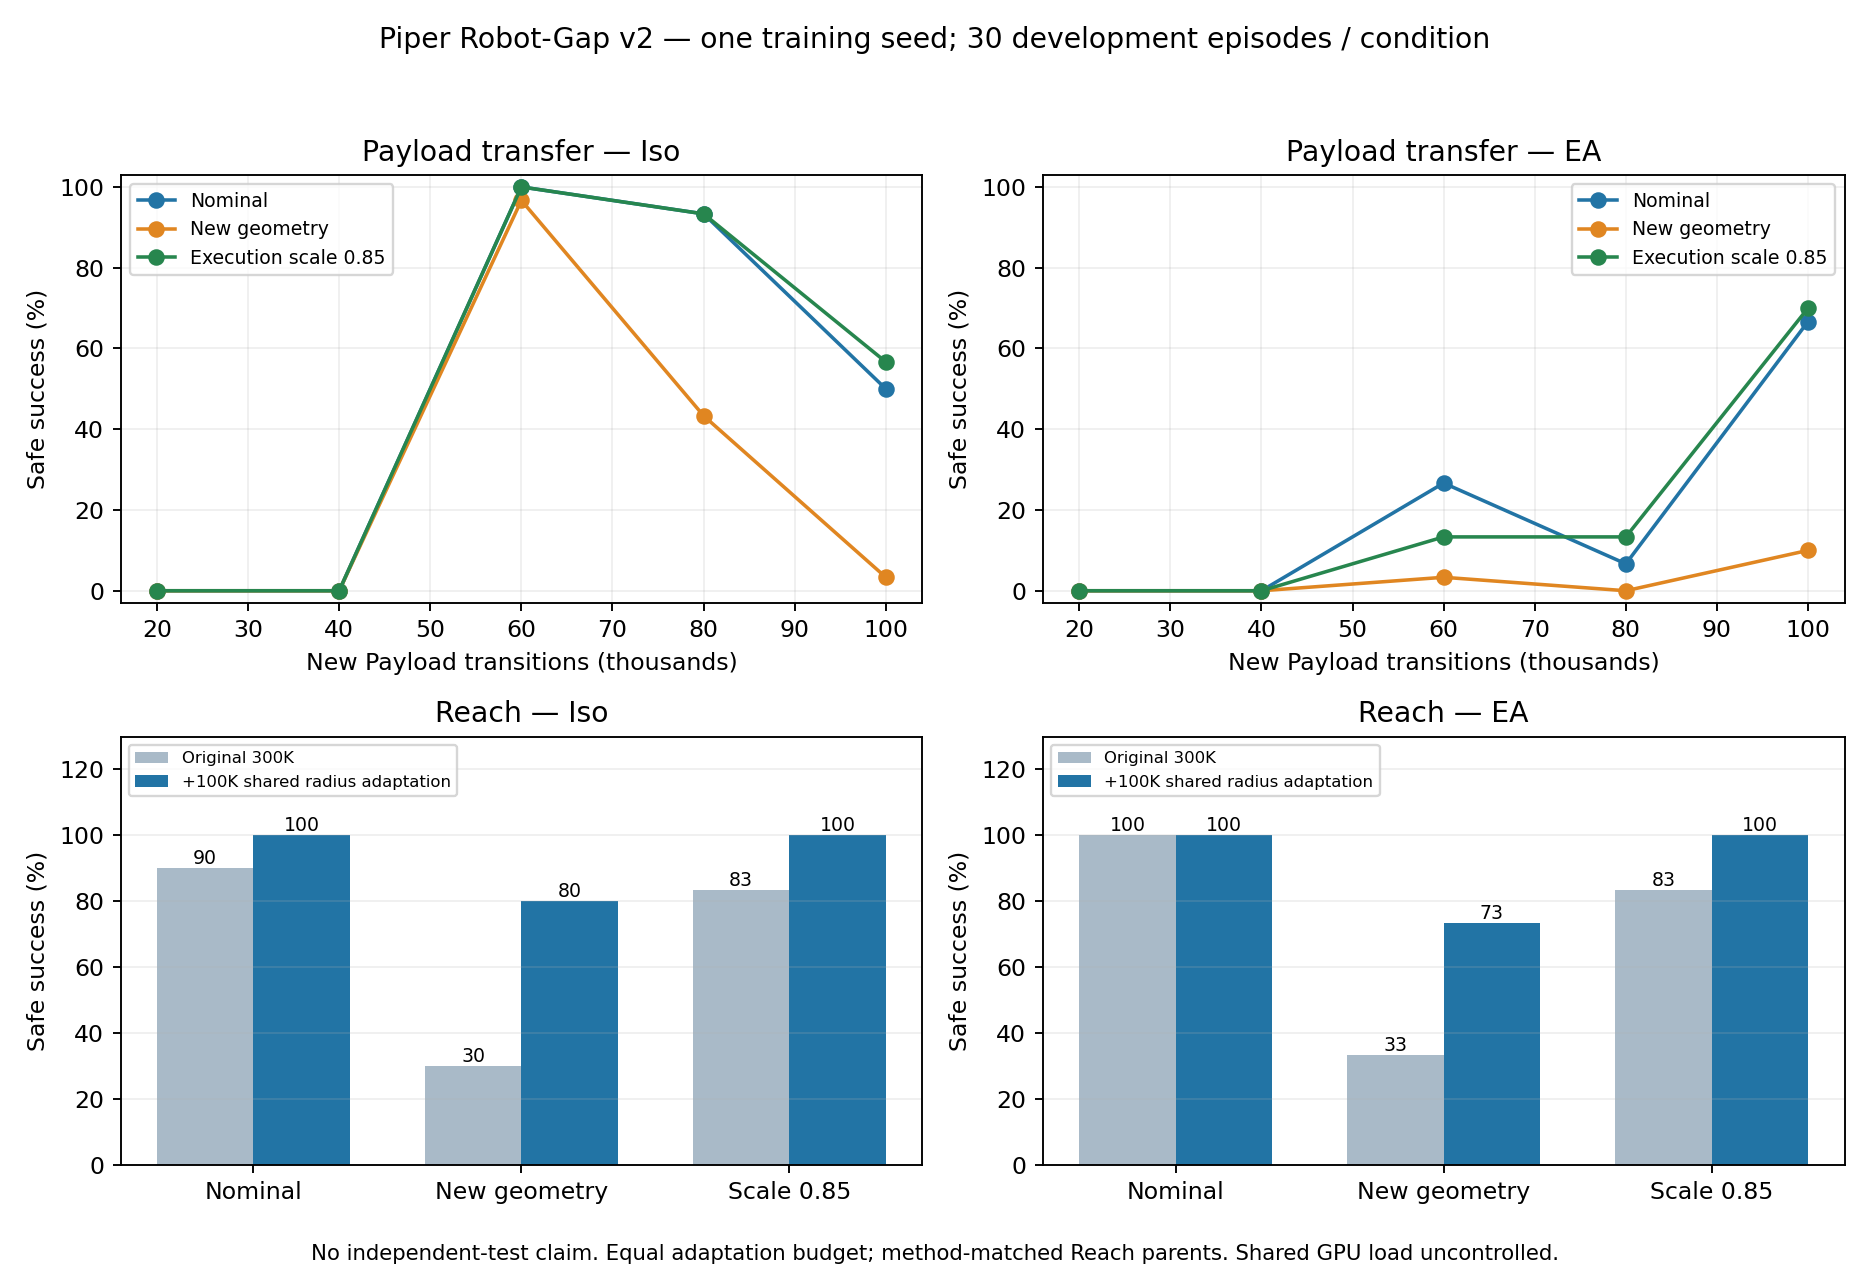
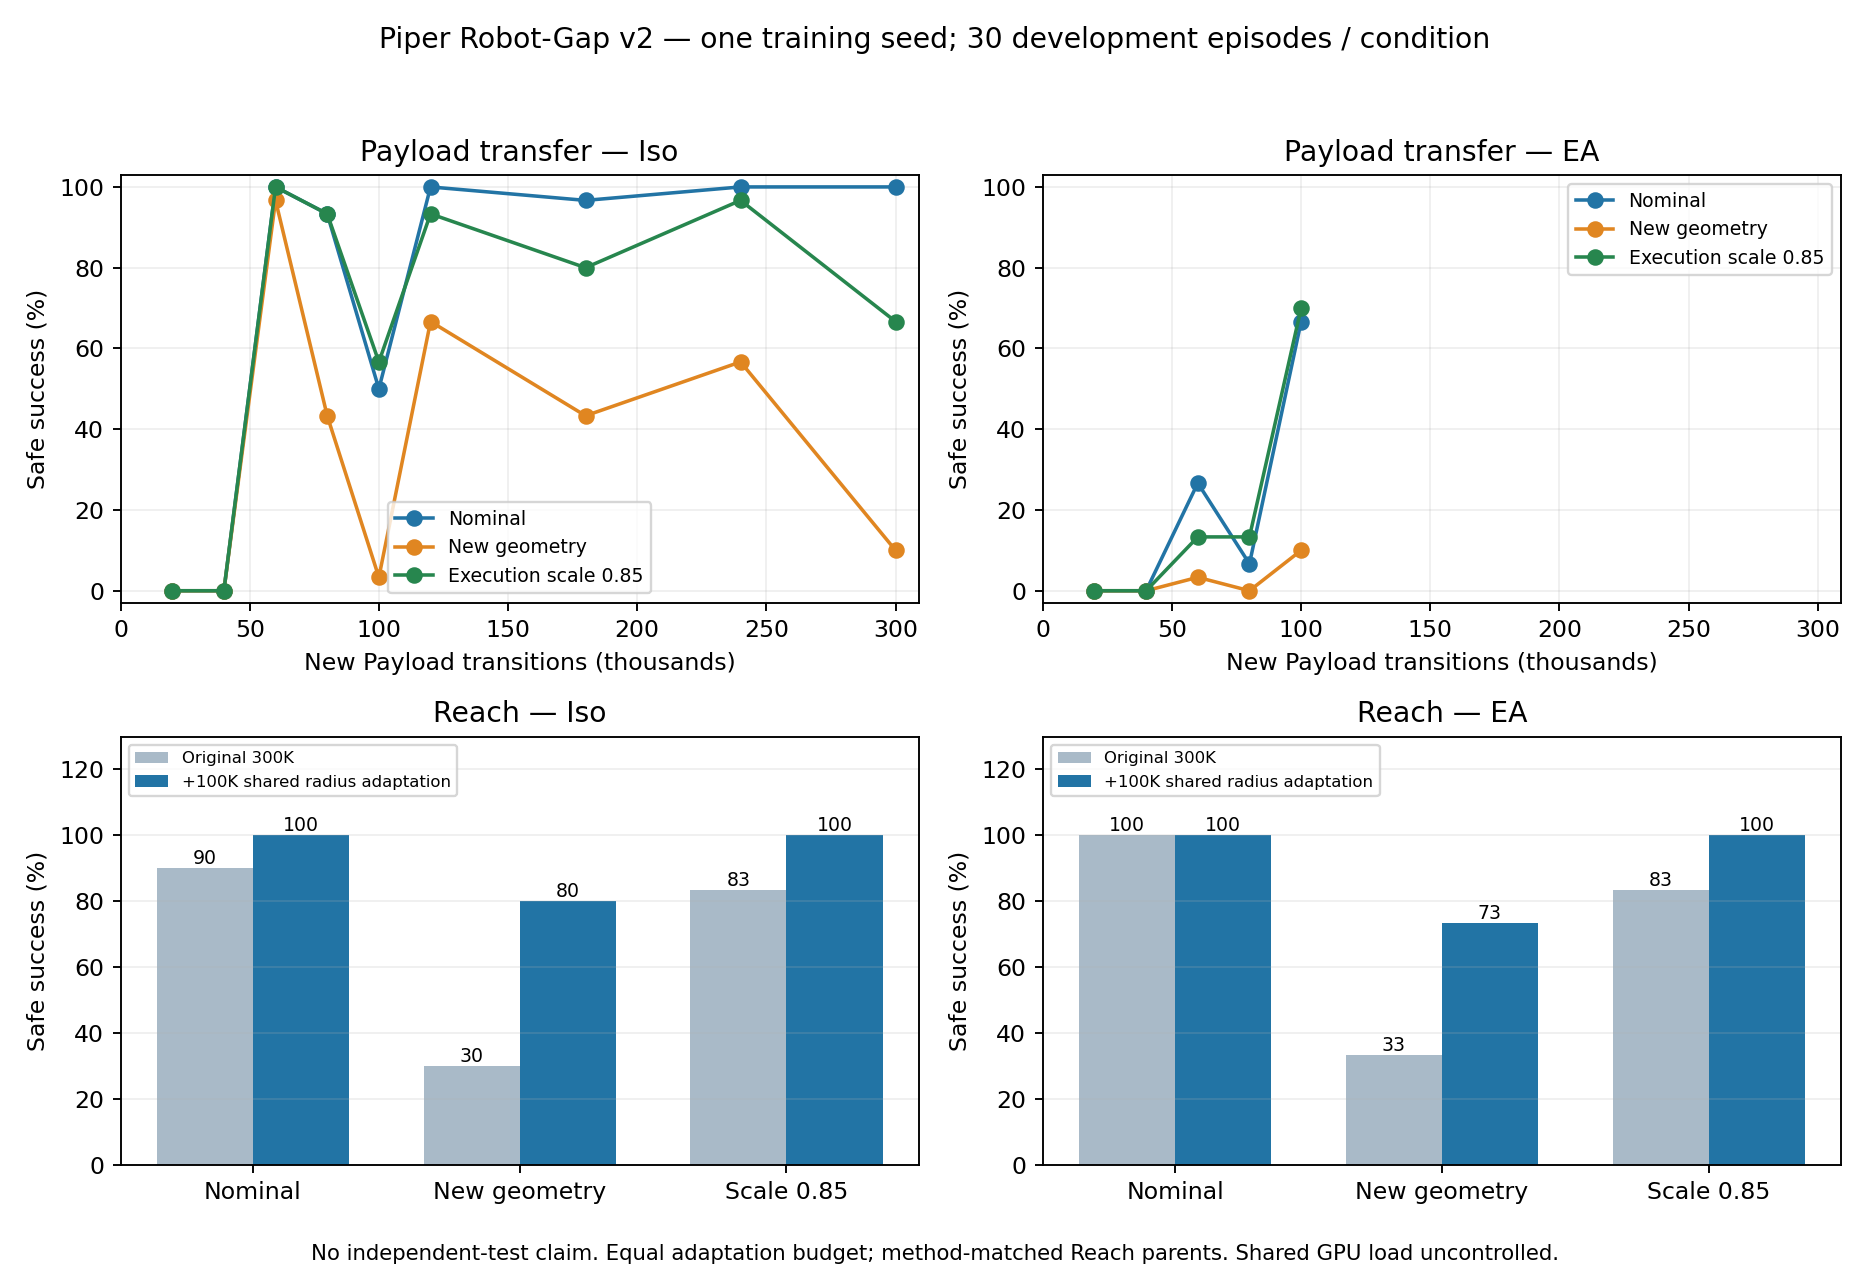
Publish complete Payload Iso300K curve and bounded EA continuation progress

diff --git a/scripts/paper_crax_payload/robot_gap_results.py b/scripts/paper_crax_payload/robot_gap_results.py
@@ -61,6 +61,7 @@ def main():
     conditions=('nominal','new_geometry','execution_scale_085')
     labels=('Nominal','New geometry','Execution scale 0.85')
     colors=('#2274a5','#e08621','#27864e')
+    maximum_payload_steps=max(r['checkpoint_steps'] for r in curves if r['task']=='Payload')
     for column,method in enumerate(('Iso','EA')):
         ax=axes[0,column]
         for condition,label,color in zip(conditions,labels,colors):
@@ -68,7 +69,7 @@ def main():
             ax.plot([r['checkpoint_steps']/1000 for r in selected],
                 [r['safe_success']*100 for r in selected],'-o',label=label,color=color)
         ax.set(title=f'Payload transfer — {method}',xlabel='New Payload transitions (thousands)',
-            ylabel='Safe success (%)',ylim=(-3,103))
+            ylabel='Safe success (%)',ylim=(-3,103),xlim=(0,maximum_payload_steps/1000*1.03))
         ax.legend(fontsize=8); ax.grid(alpha=.2)
         ax=axes[1,column]
         parent=[next(float(r['safe_success'])*100 for r in old

diff --git a/reports/robot_gap_v2/STATUS.md b/reports/robot_gap_v2/STATUS.md
@@ -9,19 +9,19 @@ existing Payload targeted geometry repair. New training cap2.20M, not a spending
 | Old Piper Reach/Payload300K candidates | All six completed on A100 | Compact final evaluations/receipts |
 | Payload failure diagnosis | Fixed10-layout diagnostic completed, no training | See diagnostic_motion_episodes.csv and diagnostic_summary.json |
 | Piper speed | Three10K profiles complete:10.63/32.46/57.66SPS | Batched-large chosen; all short scores zero, no learning-equivalence claim |
-| Reach→Payload | Matched100K pair complete; both200K additional continuations running | Fixed100K endpoint parents, identical full-state resume to300K; no curriculum |
+| Reach→Payload | Iso300K complete; EA239K/300K still running at02:19+08 | Iso final nominal/geometry/scale100%/10%/66.67%; no independent-test claim yet |
 | Reach geometry adaptation≤0.20M | Both100K adaptations complete | New-geometry safe success Iso80%, EA73.33%; nominal/scale100% both |
 | Existing Payload repair≤1.00M | Not launched;4080 original IP unreachable | Recover connection; preserve shared adaptation budget |
 | Final PointGoal mechanism/efficiency/figures | Three-seed figures, native SAC/Flow CPU latency and fixed selected-policy trajectories complete; mechanism queued | Final-selected64×32/four samplers, after Piper work and≥8GiB free GPU memory |
 | Reach deployment candidate/control program | Adapted endpoints frozen and tested on900 independent-layout episodes; actual bundles/replay exported | See reach_adapted_release/README.md; geometry violations28%/30%, hardware eligibility false |
 | Payload post-training closure | Five canonical candidates/method fixed; CPU controller1282516 waits for completed continuations |50common-validation and100independent-layout episodes/condition; no RL or extra candidate opportunities |
 
-Snapshot:2026-11-13T17:44:40UTC (November14,01:44:40+08). Initial campaign and
-Reach followup controllers exited after completing all their jobs. New controller
-PID1263416 launched Payload Iso PID1263426 and EA PID1263428, each200K additional
-transitions from its fixed100K endpoint. All three processes were confirmed live
-again at01:45+08. Observed new training is592K including162K continuation prefixes
-(Iso203K/300K cumulative, EA159K/300K cumulative), not
+Snapshot:2026-11-13T18:19:19UTC (November14,02:19:19+08). Initial campaign and
+Reach followup controllers exited after completing all their jobs. Iso's
+continuation is complete, with its genuine300K receipt; worker1263426 exited
+normally. EA worker1263428 and controllers1263416/1267618/1282516 were confirmed
+live at02:18:50+08. Observed new training is769K:630K completed plus139K of
+EA's200K continuation (239K cumulative Payload). This prefix is not
 a final result or perpetual liveness guarantee. Controllers check every30minutes,
 retain other projects and never restart failed jobs. Final mechanism controller
 was replaced before any query to explicitly supply the pinned native CRAX
@@ -42,6 +42,13 @@ violations28%/30% still fail the10% release rule.55mm was in the adaptation
 training family: independent layouts, not an unseen-radius claim. Iso-Low's
 original120K reference remains0% successful and was not given matched adaptation.
 Actual400K bundles are separate from the preserved original release.
+
+Payload-Iso's completed300K endpoint is100% nominal,10% geometry and66.67%
+scale safe success (30 development episodes/condition), with0%/90%/33.33%
+violations. Its120/180/240K geometry scores66.67/43.33/56.67% also remain in
+the full curve. Continued nominal learning did not fix robustness. The fixed
+endpoint is retained separately from the queued matched-five-candidate
+validation/independent selection. EA's300K result is not available yet.
 
 The first fixed PointGoal trajectory layout61027 gives Iso36goals/17.76cost,
 EA37goals/28.31cost. It is retained despite EA exceeding25 on that example;
@@ -72,7 +79,7 @@ serial/process parity. Local base Python lacks panda_gym; no extra installation
 was performed to force that environment to run these tests.
 
 Reservation: profiles30K + transfer2×100K + Reach2×100K + Payload continuation
-2×200K =830K, against the2.20M cap. Actual observed new transitions are592K at
+2×200K =830K, against the2.20M cap. Actual observed new transitions are769K at
 this snapshot. The1.37M remaining
 unreserved allowance is not a spending target. The Reach decision follows the
 fixed risk diagnostic: a radius prior corrected values without changing the

diff --git a/reports/robot_gap_v2/PROGRESS_REPORT.md b/reports/robot_gap_v2/PROGRESS_REPORT.md
@@ -12,7 +12,7 @@ as history, not descriptions of currently running processes.
 | Required question | Evidence-supported answer now | Remaining evidence |
 |---|---|---|
 | Why did Piper Payload fail to learn? | Original Iso is not immobile:0.424m path but only0.0684m gap reduction; detour and EA each succeed10/10 on the same diagnostic layouts. This identifies ineffective learned routing/progress, not a globally unreachable task. | No isolated causal proof that reward, values or exploration alone caused the failure. |
-| Which repair helps? | Common Reach-Actor transfer plus the profiled update setting produces learning for both methods at100K. Iso50% and EA66.67% nominal; strong intermediate regression is retained. | Fixed300K continuation and its matched-five-candidate independent closure are still running/waiting. No initialization-only causal attribution. |
+| Which repair helps? | Common Reach-Actor transfer plus the profiled update setting produces learning for both methods at100K. Iso now completes300K with100% nominal, but only10% geometry and66.67% scale success. | EA300K continuation and matched-five-candidate independent closure remain pending. No initialization-only causal attribution or solved-robustness claim. |
 | Has Reach geometry improved? | Independent-layout Iso400K success100/72/99%; EA400K100/70/100% for nominal/55mm/scale. Both received100K adaptation. | Geometry violations28/30% exceed the10% release rule.55mm was in training: no unseen-radius claim. |
 | Does EA's gain survive equal adaptation? | PointGoal's frozen independent EA policy has35.43goals/21.32cost versus Iso28.29/26.85. Equal Reach adaptation does not show an EA advantage; Iso is2points higher at55mm. | Payload300K independent comparison;4080 Panda repair. Three-seed fixed10M PointGoal remains separate from selected-policy tests. |
 | Is training genuinely faster? | Profile complete SPS10.63→57.66; actual EA100K transfer34.97SPS including evaluation/save, within20–40SPS engineering target. | Optimization/update counts changed and shared load is uncontrolled; no learning-equivalence or hardware-only speedup claim. |
@@ -359,3 +359,25 @@ receipts, then validates each candidate once, freezes both selected identities
 and evaluates independent layouts. No optional training/curriculum is enabled.
 Original scratch trials remain separate references with different pretraining
 and update histories, not a common-initialization sample-efficiency comparison.
+
+## November14,02:19+08 — first completed300K Payload continuation
+
+Iso's exact100K endpoint continuation finished normally at300K. Fixed endpoint
+nominal/geometry/scale safe success is100%/10%/66.67%, with0%/90%/33.33%
+violations on30 development episodes/condition. Geometry success at120/180/240K
+was66.67/43.33/56.67%; all points and the poor300K endpoint are preserved.
+This is nominal learning without stable robustness, not a reason to extend
+training or replace the endpoint by an intermediate maximum. Its200K segment
+took3019.12s at66.24SPS, with456 additional training violations (682 cumulative
+Payload violations). The five completed-branch efficiency table now has48
+condition/checkpoint rows and common x-axis scales.
+
+EA was confirmed live at239K/300K,38.20SPS prefix. At unchanged prefix speed the
+remaining61K takes about27minutes, plus remaining evaluation/save. This is an
+estimate for this training branch, not an ETA for independent closure or the
+whole project. Current observed new RL is769K, including630K complete and139K
+EA continuation prefix; reservation remains830K. The CPU closure still waits
+for both complete receipts. GPU0 has5.28GiB free despite0% instantaneous compute
+utilization: other projects retain the remaining memory. The final mechanism's
+8GiB launch condition is not met, and no foreign process is stopped. Data free
+space is approximately74GiB; home remains145GiB.4080 still has no route.

diff --git a/reports/robot_gap_v2/piper_results/README.md b/reports/robot_gap_v2/piper_results/README.md
@@ -1,7 +1,8 @@
 # Completed Piper transfer and geometry adaptation
 
-`piper_new_learning_curve.csv` retains all36 condition/checkpoint rows from
-the first four completed branches; `piper_new_efficiency.csv` records exact
+`piper_new_learning_curve.csv` retains all48 condition/checkpoint rows from
+five completed branches, including the Iso300K continuation;
+`piper_new_efficiency.csv` records exact
 new transitions, elapsed time, stage timing, update counts and new violations.
 `receipts/` contains the corresponding genuine completion receipts. Raw
 episode trajectories remain on the A100 data disk and in the local source
@@ -27,9 +28,22 @@ The condition retains its original name `new_geometry`, but55mm is included
 in the adaptation training-radius family. This is geometry-distribution repair,
 not extrapolation to an unseen radius. Independent-layout tests are separate.
 
-The planned continuation uses each fixed100K Payload endpoint, with200K more
-per method and identical full-state resume. No curriculum, geometry change or
-additional candidate search. Its results will be appended only when complete.
+The continuation uses each fixed100K Payload endpoint, with200K more per
+method and identical full-state resume. No curriculum, geometry change or
+additional candidate search. Iso is complete: its300K endpoint has100% nominal,
+10% geometry and66.67% scale safe success, with0%/90%/33.33% violations.
+Its geometry success was66.67% at120K,43.33% at180K and56.67% at240K;
+the poor300K endpoint is preserved rather than silently replaced. Nominal
+learning has stabilized more than robustness. The200K continuation took
+3019.12s (66.24SPS) with456 new training violations; cumulative Payload
+training violations are682 including the first100K. These are development
+results, not the pending common-validation/independent closure.
+
+EA's continuation was still live at239K/300K at02:19+08 November14. Its
+partially completed segment is deliberately not folded into this completed-run
+efficiency/curve table. The figure uses identical x-axis scales for both
+methods; missing later EA points mean pending results, not zero success.
+Do not compare the two methods as if both300K endpoints were already available.
 
 Regenerate from retained input records:
 
